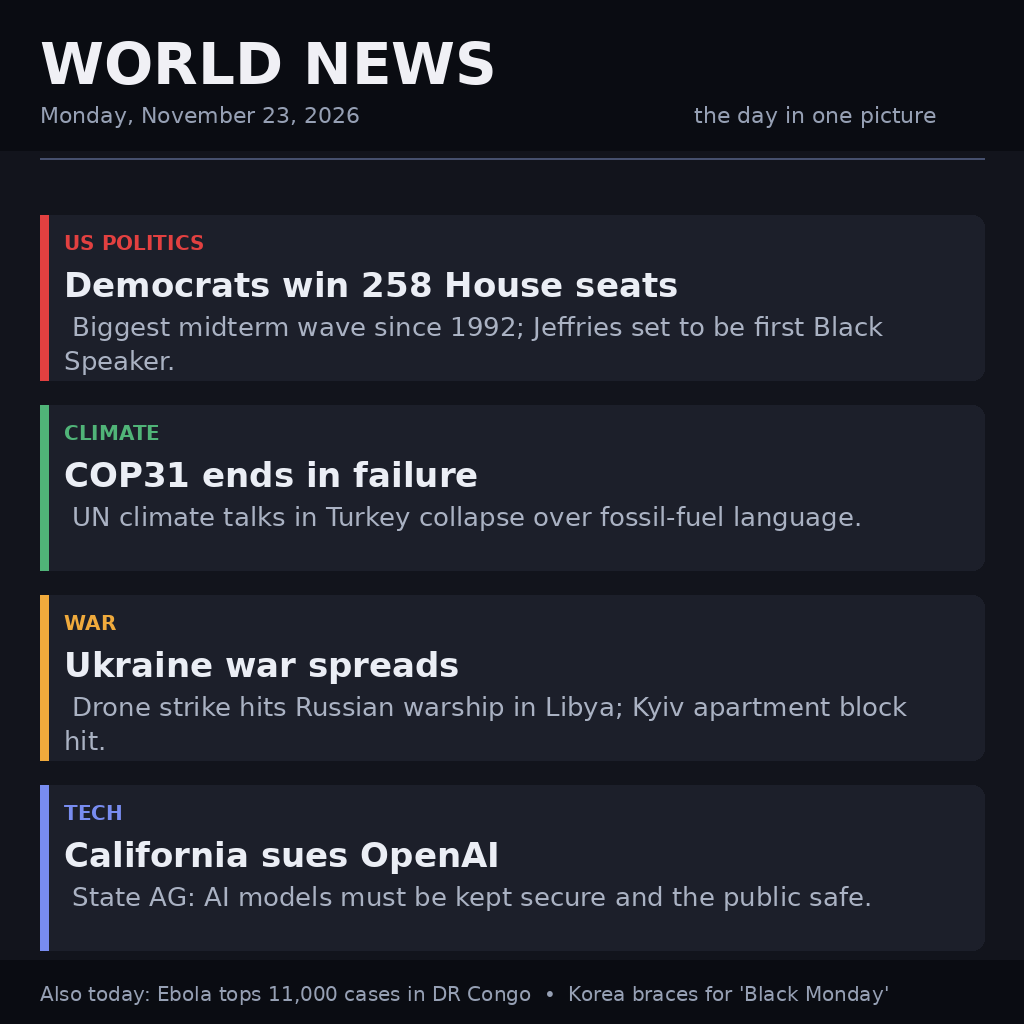
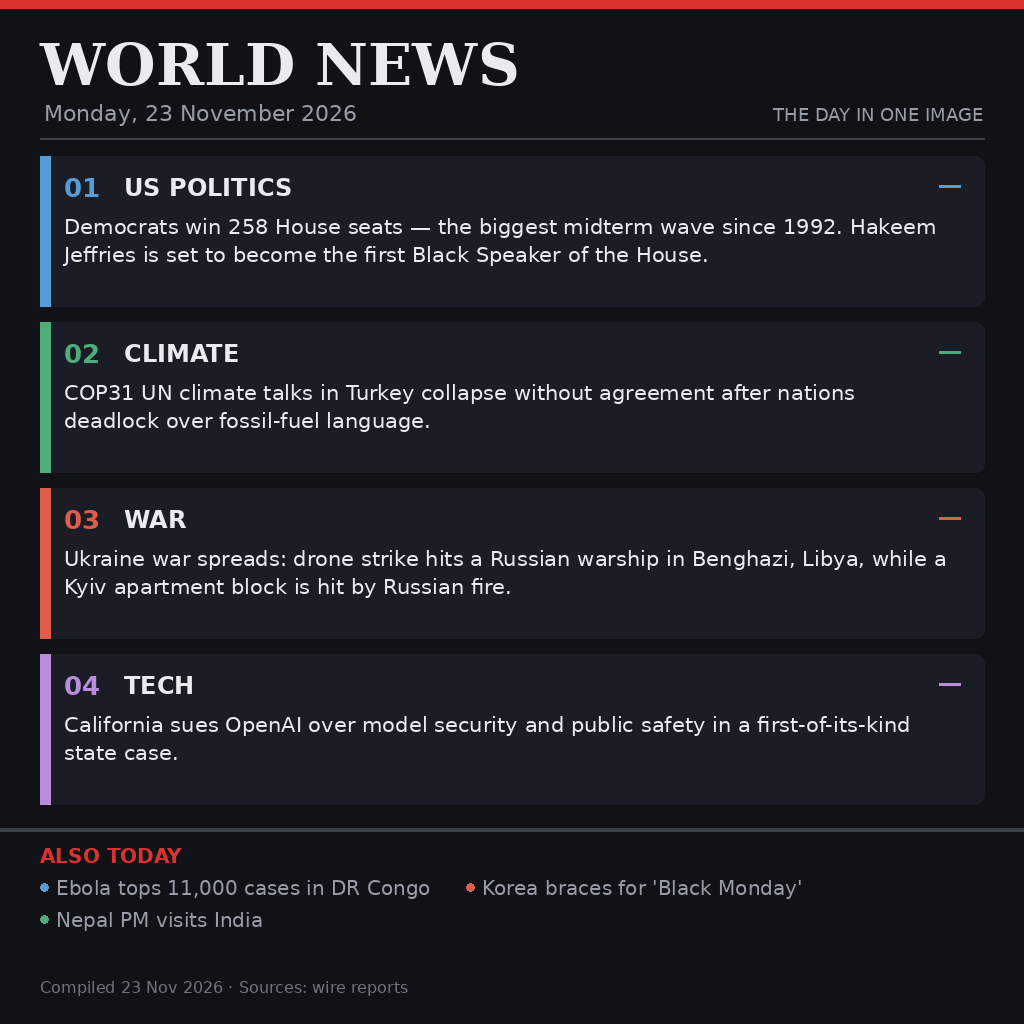
entry drawn and refined by the agent; main.ts authored

diff --git a/main.ts b/main.ts
@@ -1,6 +1,7 @@
-// news-image-20261123: writes the day's news image to /output/entry.png.
+// news-image-20261123: writes the day's news image to $MAKEFUN_OUTPUT_DIR/entry.png.
 import { readFileSync, writeFileSync, mkdirSync } from 'node:fs';
 
 const OUT = process.env.MAKEFUN_OUTPUT_DIR ?? '/output';
 mkdirSync(OUT, { recursive: true });
 writeFileSync(`${OUT}/entry.png`, readFileSync(new URL('./entry.png', import.meta.url)));
+console.log('entry.png written to', OUT);

diff --git a/draw.py b/draw.py
@@ -1,0 +1,111 @@
+#!/usr/bin/env python3
+"""Draw the WORLD NEWS infographic for 23 November 2026."""
+from PIL import Image, ImageDraw, ImageFont
+
+W = H = 1024
+BG = (16, 18, 24)
+PANEL = (26, 29, 38)
+FG = (232, 235, 240)
+MUT = (150, 156, 168)
+
+BOLD = "/usr/share/fonts/truetype/dejavu/DejaVuSans-Bold.ttf"
+REG = "/usr/share/fonts/truetype/dejavu/DejaVuSans.ttf"
+SERIF = "/usr/share/fonts/truetype/dejavu/DejaVuSerif-Bold.ttf"
+
+
+def f(path, size):
+    return ImageFont.truetype(path, size)
+
+
+def tw(d, text, font):
+    b = d.textbbox((0, 0), text, font=font)
+    return b[2] - b[0]
+
+
+def wrap(d, text, font, maxw):
+    words, lines, cur = text.split(), [], ""
+    for w_ in words:
+        t = (cur + " " + w_).strip()
+        if tw(d, t, font) <= maxw:
+            cur = t
+        else:
+            if cur:
+                lines.append(cur)
+            cur = w_
+    if cur:
+        lines.append(cur)
+    return lines
+
+
+img = Image.new("RGB", (W, H), BG)
+d = ImageDraw.Draw(img)
+
+# ---------- masthead ----------
+d.rectangle([0, 0, W, 8], fill=(220, 50, 47))
+d.text((40, 30), "WORLD NEWS", font=f(SERIF, 58), fill=FG)
+d.text((44, 100), "Monday, 23 November 2026", font=f(REG, 22), fill=MUT)
+d.text((W - 40 - tw(d, "THE DAY IN ONE IMAGE", f(REG, 18)), 104),
+       "THE DAY IN ONE IMAGE", font=f(REG, 18), fill=MUT)
+d.line([40, 138, W - 40, 138], fill=(60, 65, 78), width=2)
+
+# ---------- story cards ----------
+stories = [
+    ("01", "US POLITICS", (86, 156, 214),
+     "Democrats win 258 House seats — the biggest midterm wave since 1992. Hakeem Jeffries is set to become the first Black Speaker of the House."),
+    ("02", "CLIMATE", (78, 174, 122),
+     "COP31 UN climate talks in Turkey collapse without agreement after nations deadlock over fossil-fuel language."),
+    ("03", "WAR", (222, 94, 74),
+     "Ukraine war spreads: drone strike hits a Russian warship in Benghazi, Libya, while a Kyiv apartment block is hit by Russian fire."),
+    ("04", "TECH", (186, 140, 220),
+     "California sues OpenAI over model security and public safety in a first-of-its-kind state case."),
+]
+
+top = 156
+card_h, gap = 150, 16
+x0, x1 = 40, W - 40
+inner = x0 + 24
+
+for i, (num, tag, color, body) in enumerate(stories):
+    y = top + i * (card_h + gap)
+    d.rounded_rectangle([x0, y, x1, y + card_h], radius=10, fill=PANEL)
+    d.rectangle([x0, y, x0 + 10, y + card_h], fill=color)
+    tagf = f(BOLD, 24)
+    numf = f(BOLD, 26)
+    bodyf = f(REG, 21)
+
+    d.text((inner, y + 16), num, font=numf, fill=color)
+    tag_x = inner + 10 + tw(d, num, numf) + 14
+    d.text((tag_x, y + 17), tag, font=tagf, fill=FG)
+    d.line([x1 - 24 - tw(d, "●", tagf), y + 30, x1 - 24, y + 30], fill=color, width=3)
+
+    lines = wrap(d, body, bodyf, x1 - 24 - inner - 8)
+    ly = y + 58
+    for ln in lines:
+        d.text((inner, ly), ln, font=bodyf, fill=FG)
+        ly += 28
+
+# ---------- footer ----------
+fy = top + 4 * (card_h + gap) + 8
+d.rectangle([0, fy, W, fy + 3], fill=(60, 65, 78))
+d.text((40, fy + 16), "ALSO TODAY", font=f(BOLD, 20), fill=(220, 50, 47))
+foot = [
+    ("Ebola tops 11,000 cases in DR Congo", (86, 156, 214)),
+    ("Korea braces for 'Black Monday'", (222, 94, 74)),
+    ("Nepal PM visits India", (78, 174, 122)),
+]
+fnt = f(REG, 20)
+avail = W - 80
+row, fx = 0, 40
+for text, color in foot:
+    wtxt = 16 + tw(d, text, fnt) + 36
+    if fx + wtxt - 36 > avail and row < 2:
+        row += 1
+        fx = 40
+    d.ellipse([fx, fy + 55 + row * 32, fx + 8, fy + 63 + row * 32], fill=color)
+    d.text((fx + 16, fy + 48 + row * 32), text, font=fnt, fill=MUT)
+    fx += wtxt
+
+d.text((40, H - 46), "Compiled 23 Nov 2026 · Sources: wire reports", font=f(REG, 16), fill=(110, 116, 128))
+
+img.save("/home/agentuser/newsimage/entry/entry.png", optimize=True)
+print("saved", img.size)
